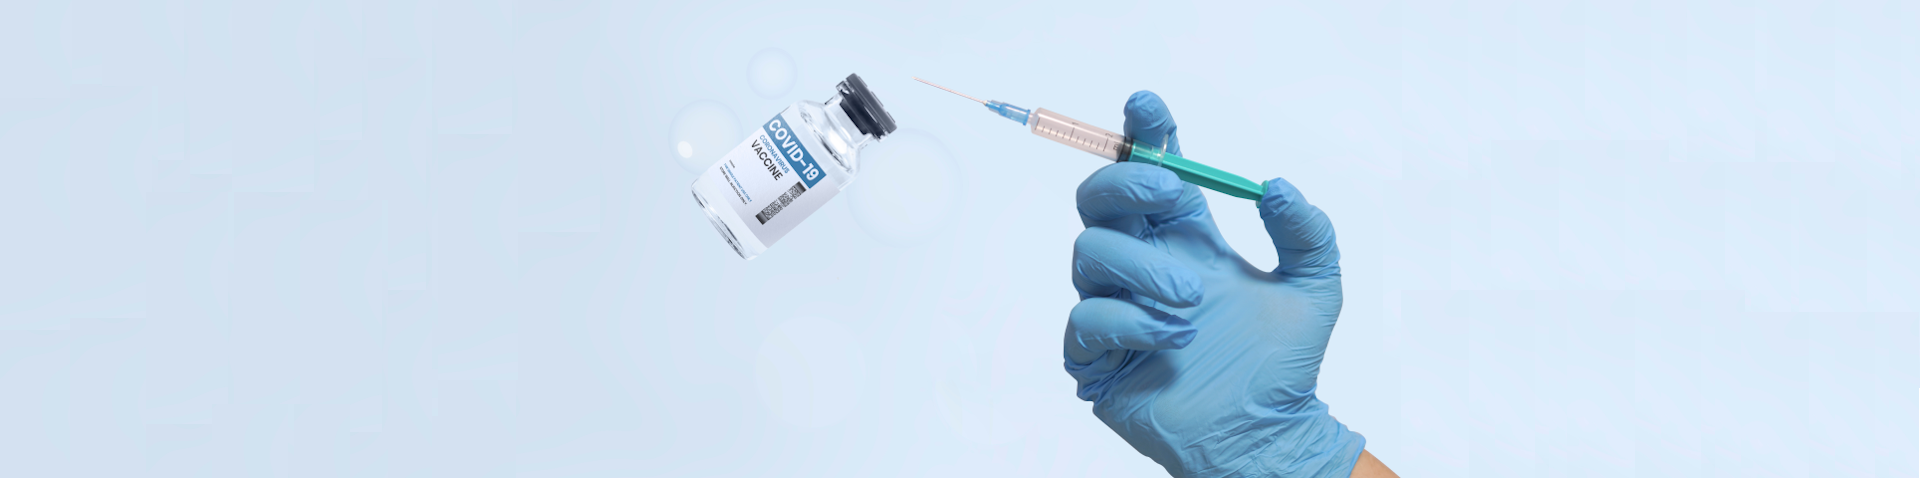
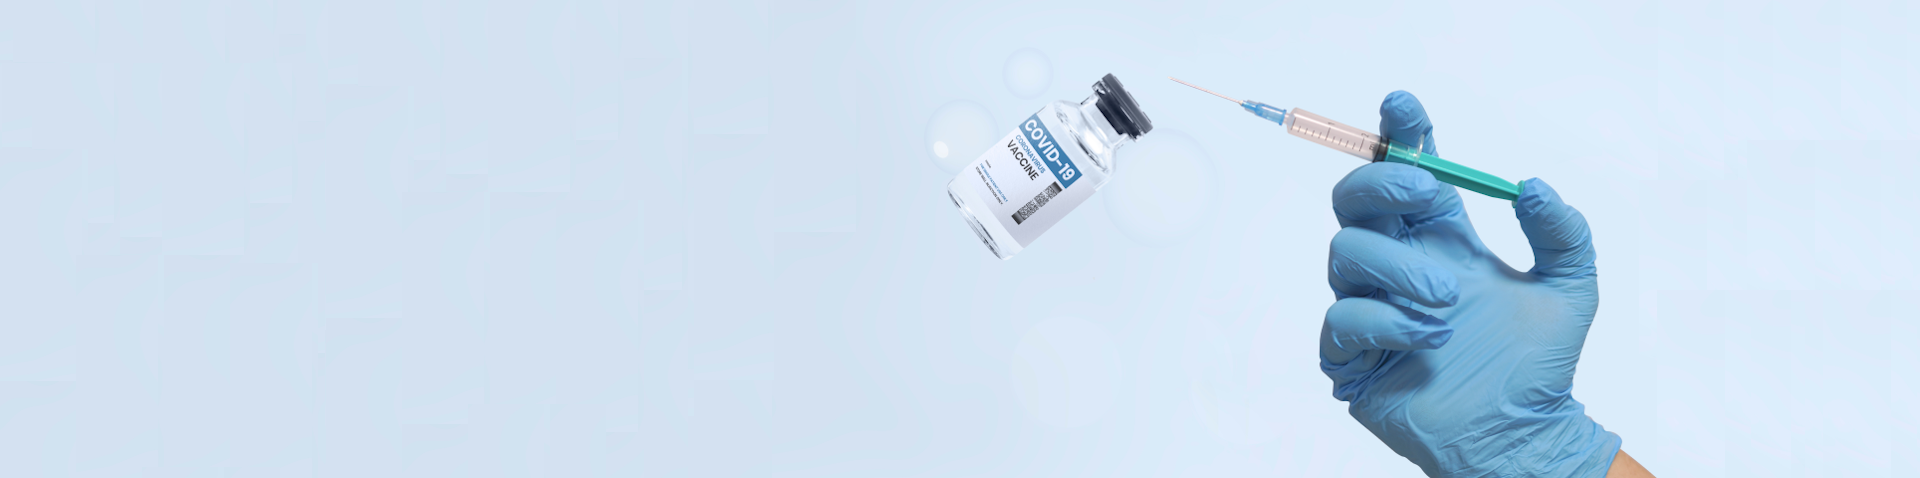
fix

Changed region(s): [[0.5, 0.1464, 0.875, 1.0], [0.3438, 0.1464, 0.4688, 0.5272]]

diff --git a/premier-med.html b/premier-med.html
@@ -63,9 +63,26 @@
         <div class="owl-carousel">
             <div class="owl-carousel-item">
                 <img src="images/banner.png" alt="">
+                <div class="container">
+                    <div class="banner-item-text">
+                        <p>Leading manufacturer of medical syringes, hypodermic needles and sterile polymeric devices
+                            for
+                            infusion of blood substitutes and infusion solutions for single use with injection needles
+                        </p>
+                        <a href="#">Modern approach to medicine</a>
+                        <a href="#" class="main-site-btn">Download PDF</a>
+                    </div>
+                </div>
             </div>
             <div class="owl-carousel-item">
                 <img src="images/banner2.png" alt="">
+                <div class="container">
+                    <div class="banner-item-text">
+                        <h2>COVID-19</h2>
+                        <p>Vaccination syringes</p>
+                        <a href="#" class="main-site-btn">Learn more >></a>
+                    </div>
+                </div>
             </div>
         </div>
     </div>

diff --git a/css/style.css b/css/style.css
@@ -2,7 +2,6 @@ body {
     font-family: 'Montserrat', sans-serif;
     overflow-x: hidden;
     font-size: 16px;
-    background-image: url(../images/bg-demo.jpg);
     color: #333;
 }
 a, button {
@@ -39,6 +38,38 @@ a:hover {
 }
 .main__header {
     margin: 20px 0;
+}
+.banner-item-text {
+    position: absolute;
+    width: 478px;
+    top: 105px;
+    left: 29%;
+    color: #666666
+}
+.owl-carousel-item {
+    position: relative;
+}
+.banner-item-text p {
+    margin-bottom: 15px;
+    font-size: 22px;
+}
+.banner-item-text a {
+    display: block;
+    margin-bottom: 20px;
+    font-size: 18px;
+}
+.main-site-btn {
+    background: #662483;
+    border-radius: 30px;
+    color: #fff;
+    font-size: 16px;
+    padding: 16px 72px;
+}
+.banner-item-text .main-site-btn {
+    display: inline-block;
+}
+.banner-item-text h2 {
+    font-size: 64px;
 }
 @media (min-width: 768px) {
     .navbar-nav {
